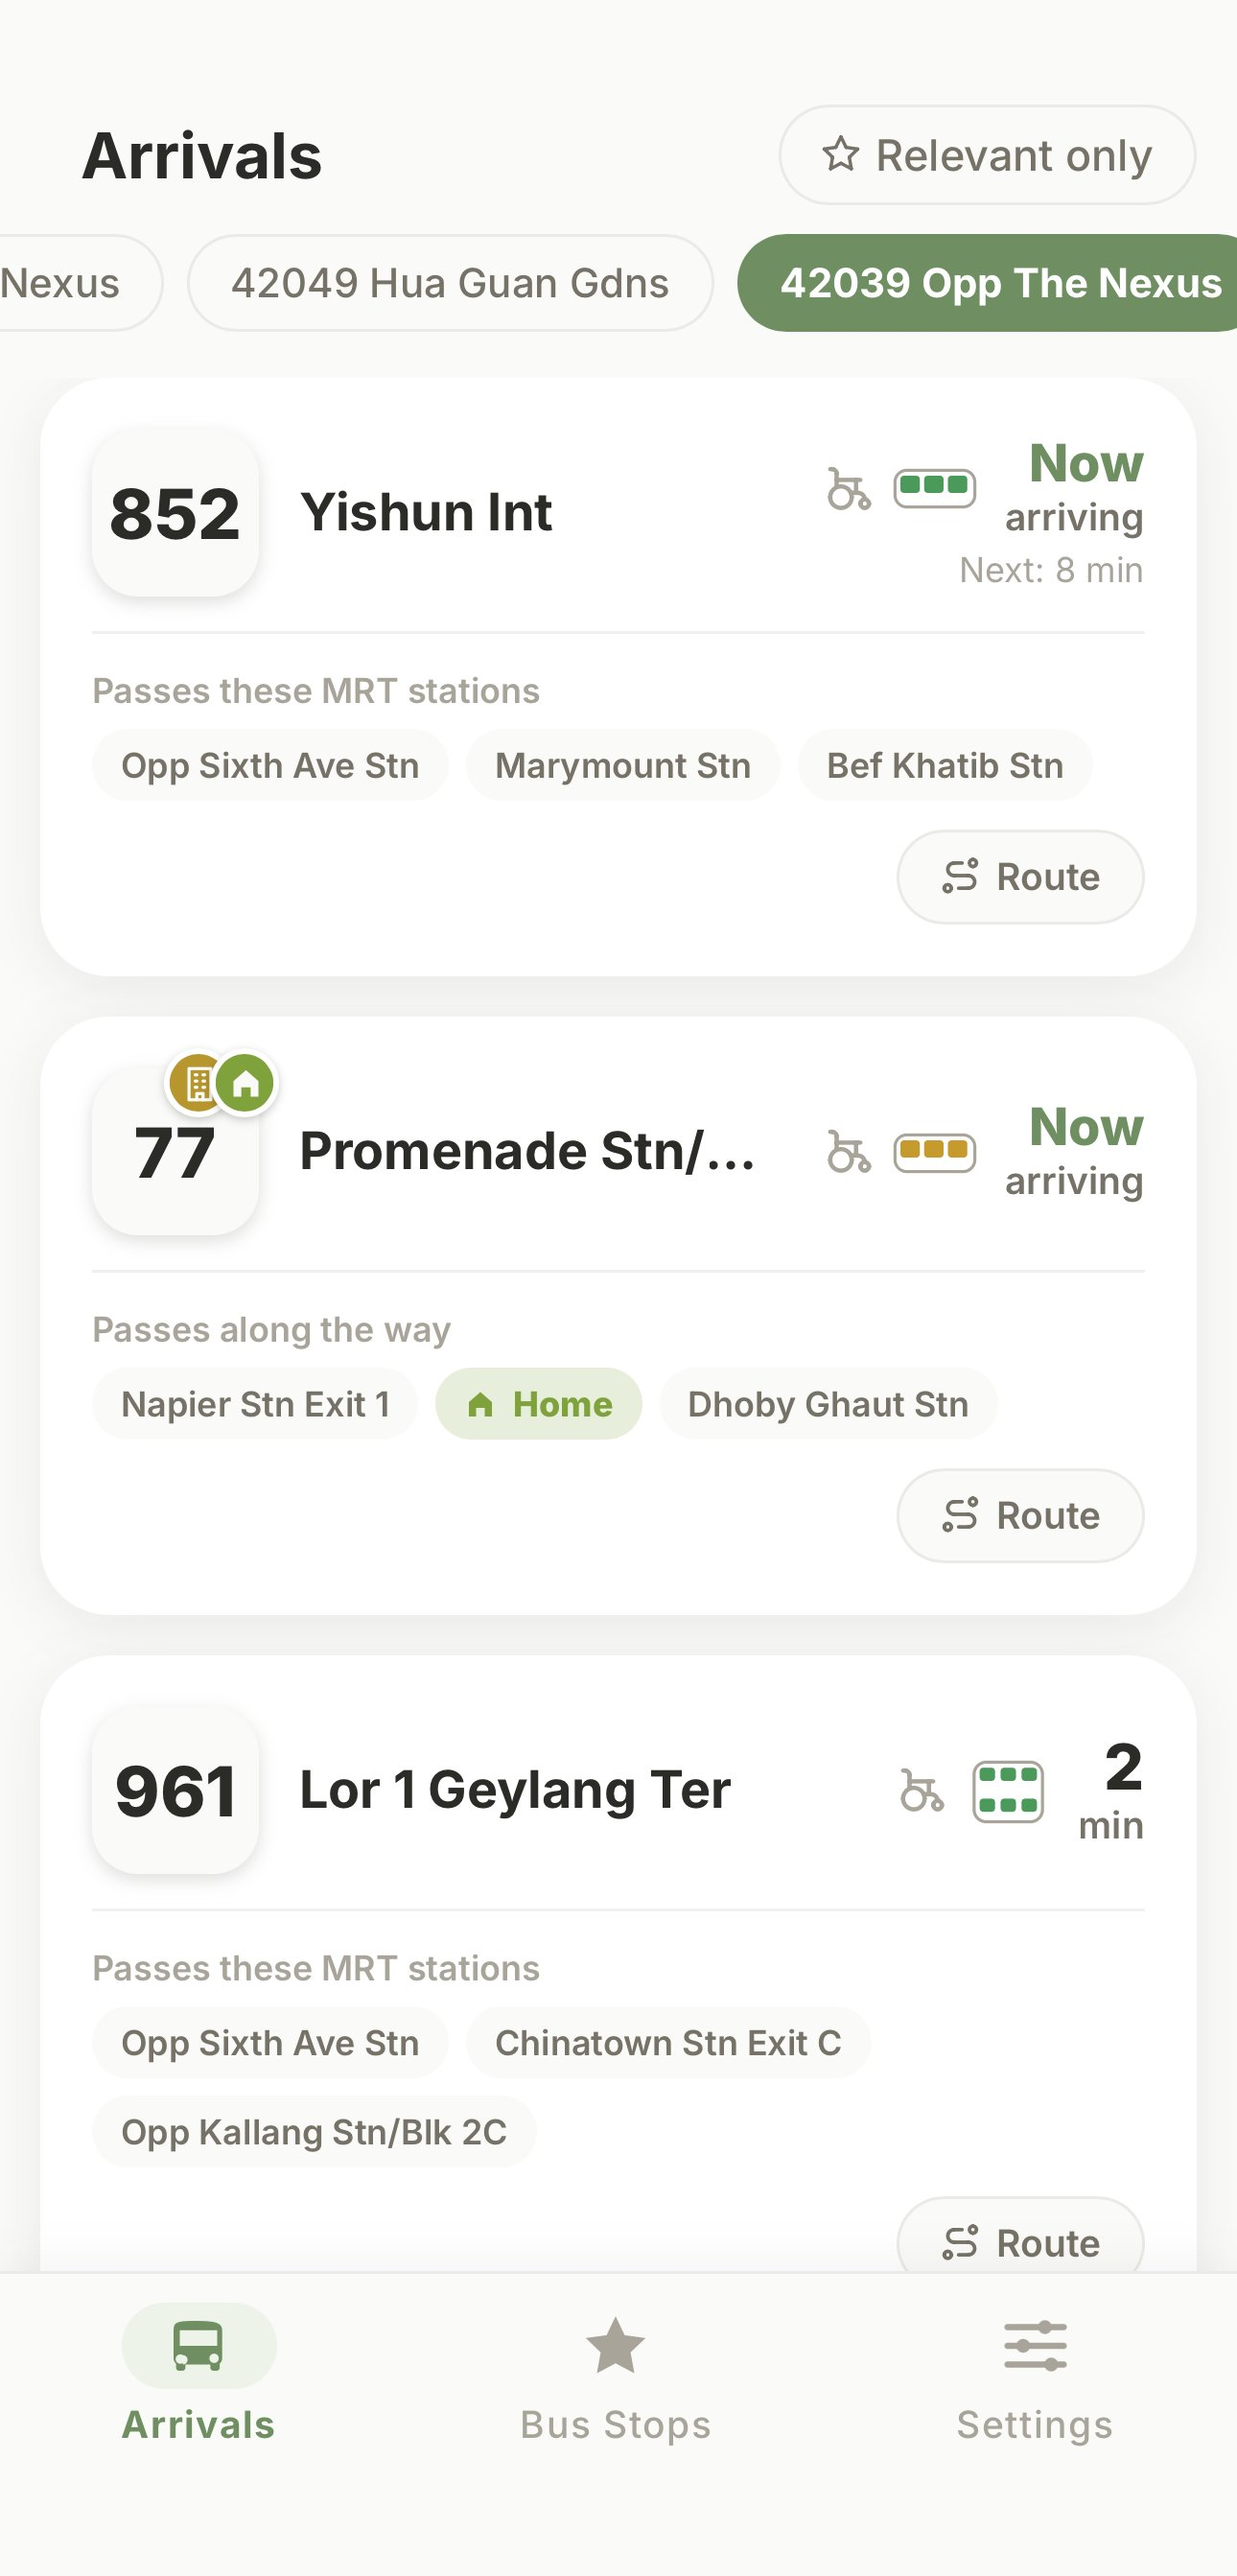
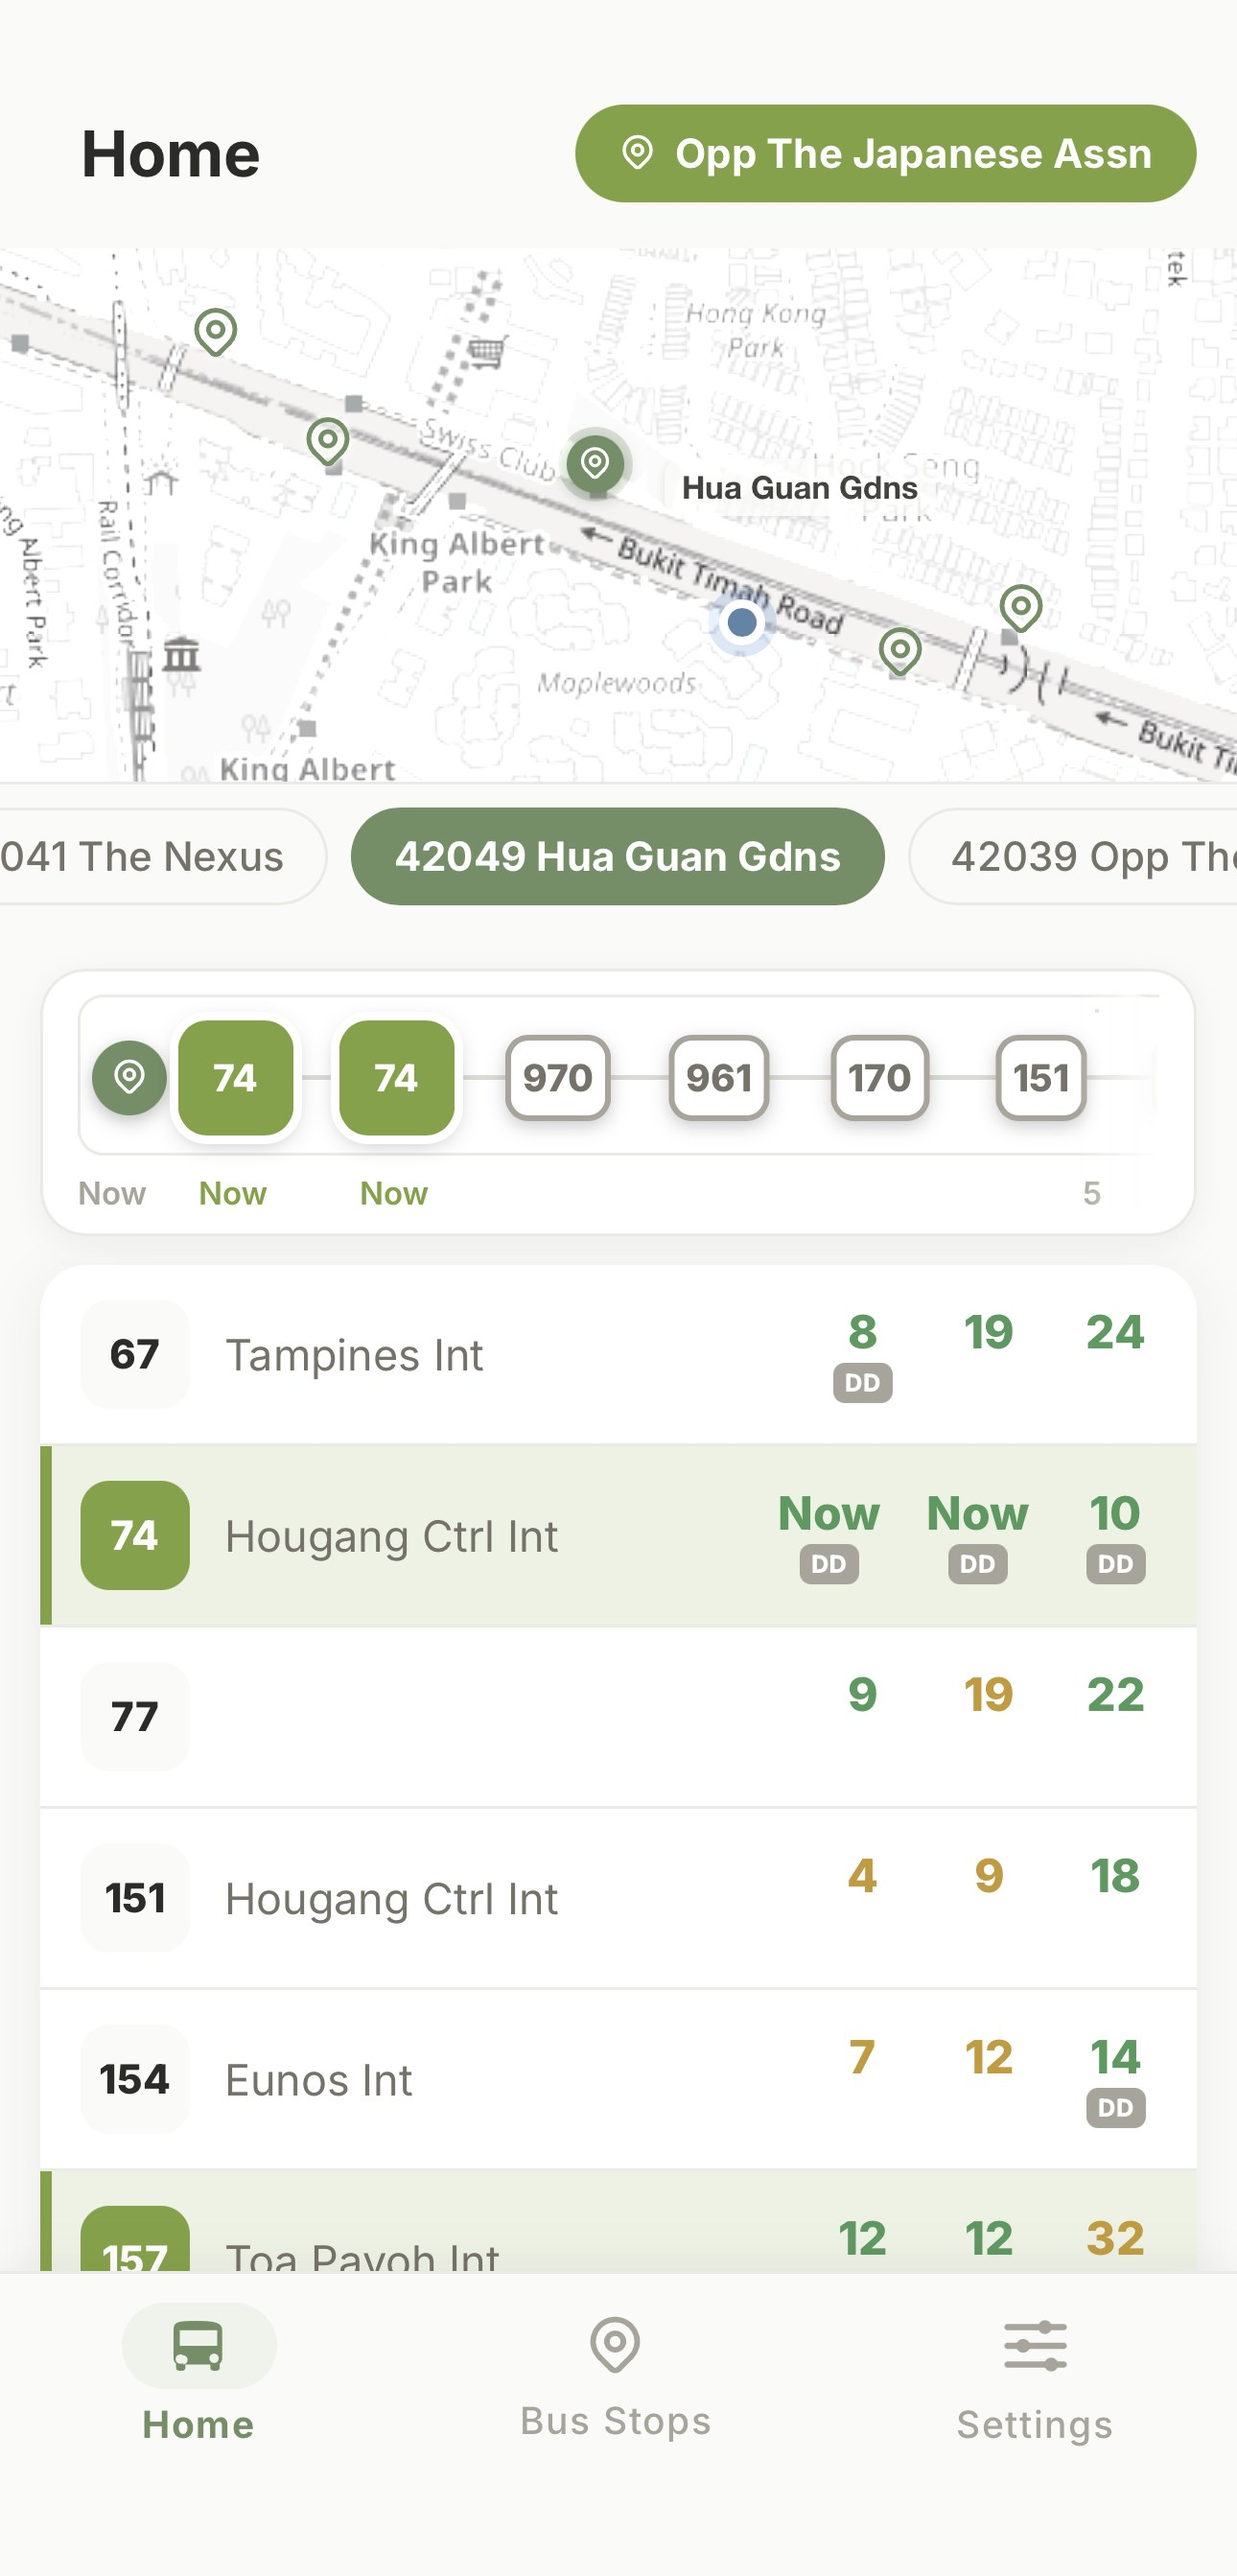
Update about page screenshots and copy for redesigned Home tab
Replaces the old Arrivals/Route/Saved-stops screenshots with the
current UI (renamed Arrivals tab -> Home, live progress bar for
arriving buses, route map showing MRT stations). Feature section adds
a card for the progress bar and reframes the first card around the
Home screen showing saved stops, map, and arrivals together.

Claude-Session: https://claude.ai/code/session_01Se63R777YcJrzEWDVkmrpj

diff --git a/public/about.html b/public/about.html
@@ -307,7 +307,7 @@
   <section class="hero">
     <div class="hero-badge">For everyone in Singapore</div>
     <h1>Stop looking up bus numbers.<br><em>Just open it,</em><br>and see what's coming.</h1>
-    <p>Old bus apps make you search a number, then search a timetable. SGBusNavi shows what's actually arriving at your stop right now — the moment you open it. Just like standing there and watching the buses roll in.</p>
+    <p>Old bus apps make you search a number, then search a timetable. SGBusNavi shows what's actually arriving at your stop right now — the moment you open it, with a live progress bar so you know exactly how close each bus is. Just like standing there and watching the buses roll in.</p>
     <div class="hero-btns">
       <a href="/" class="btn-primary">🚌 Open SGBusNavi</a>
     </div>
@@ -317,34 +317,34 @@
   <div class="mockup-wrap">
     <div class="mockup-inner">
 
-      <!-- SCREEN 1: Arrivals -->
+      <!-- SCREEN 1: Home -->
       <div class="mockup-item">
         <div class="phone">
           <div class="phone-img-wrap">
-            <img src="/screenshots/screen-arrivals.jpg" alt="Arrivals feed">
+            <img src="/screenshots/screen-arrivals.jpg" alt="Home screen with live arrivals and progress bar">
           </div>
         </div>
-        <div class="mockup-label">Arrivals</div>
+        <div class="mockup-label">Home</div>
       </div>
 
       <!-- SCREEN 2: Route -->
       <div class="mockup-item">
         <div class="phone">
           <div class="phone-img-wrap">
-            <img src="/screenshots/screen-route.jpg" alt="Route map">
+            <img src="/screenshots/screen-route.jpg" alt="Route map with MRT stations">
           </div>
         </div>
         <div class="mockup-label">Route</div>
       </div>
 
-      <!-- SCREEN 3: Saved stops -->
+      <!-- SCREEN 3: Bus Stops -->
       <div class="mockup-item">
         <div class="phone">
           <div class="phone-img-wrap">
-            <img src="/screenshots/screen-saved.jpg" alt="Saved bus stops">
+            <img src="/screenshots/screen-saved.jpg" alt="Saved bus stops list">
           </div>
         </div>
-        <div class="mockup-label">Saved stops</div>
+        <div class="mockup-label">Bus Stops</div>
       </div>
 
     </div>
@@ -362,12 +362,17 @@
   <!-- FEATURES -->
   <section class="features">
     <div class="section-label">FEATURES</div>
-    <h2 class="section-title">Three things it does really well</h2>
+    <h2 class="section-title">A few things it does really well</h2>
     <div class="feature-grid">
       <div class="feature-card">
+        <div class="feature-icon">🏠</div>
+        <h3>Everything, one screen</h3>
+        <p>Your saved stops, a live map, and every arriving bus — all on the Home screen the moment you open the app. No digging through tabs to get the answer.</p>
+      </div>
+      <div class="feature-card">
         <div class="feature-icon">🚌</div>
-        <h3>Arrivals, at a glance</h3>
-        <p>Every incoming bus at your nearest stop, listed the moment you open the app — service number, destination, and time to arrival. No number lookup, no timetable scrolling.</p>
+        <h3>See how close, not just a number</h3>
+        <p>A live progress bar shows exactly where each bus is on its way to you, so you can tell at a glance whether to walk faster or take your time.</p>
       </div>
       <div class="feature-card">
         <div class="feature-icon">🗺</div>
